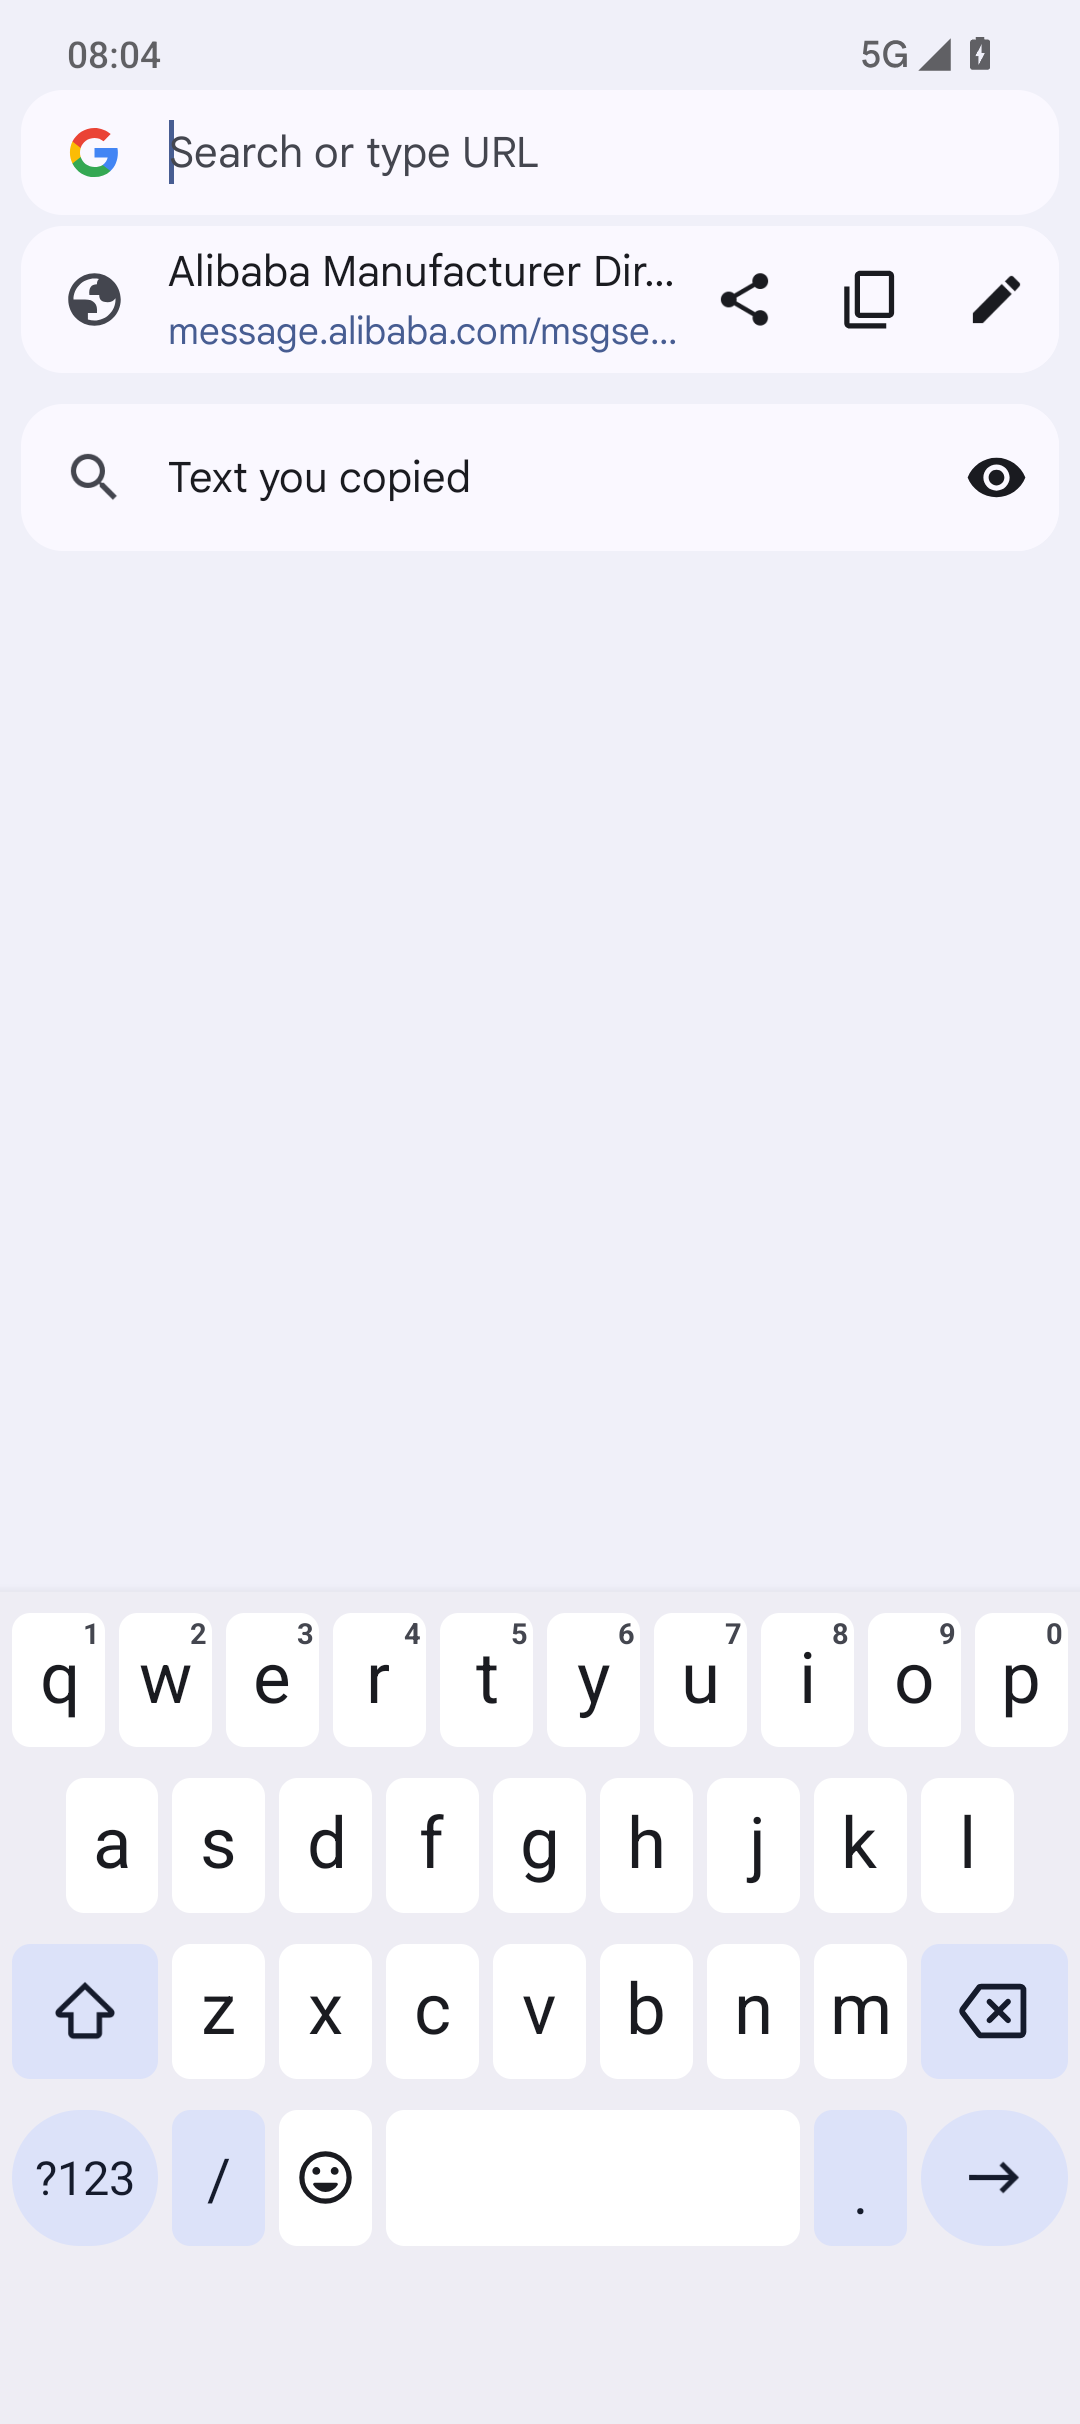
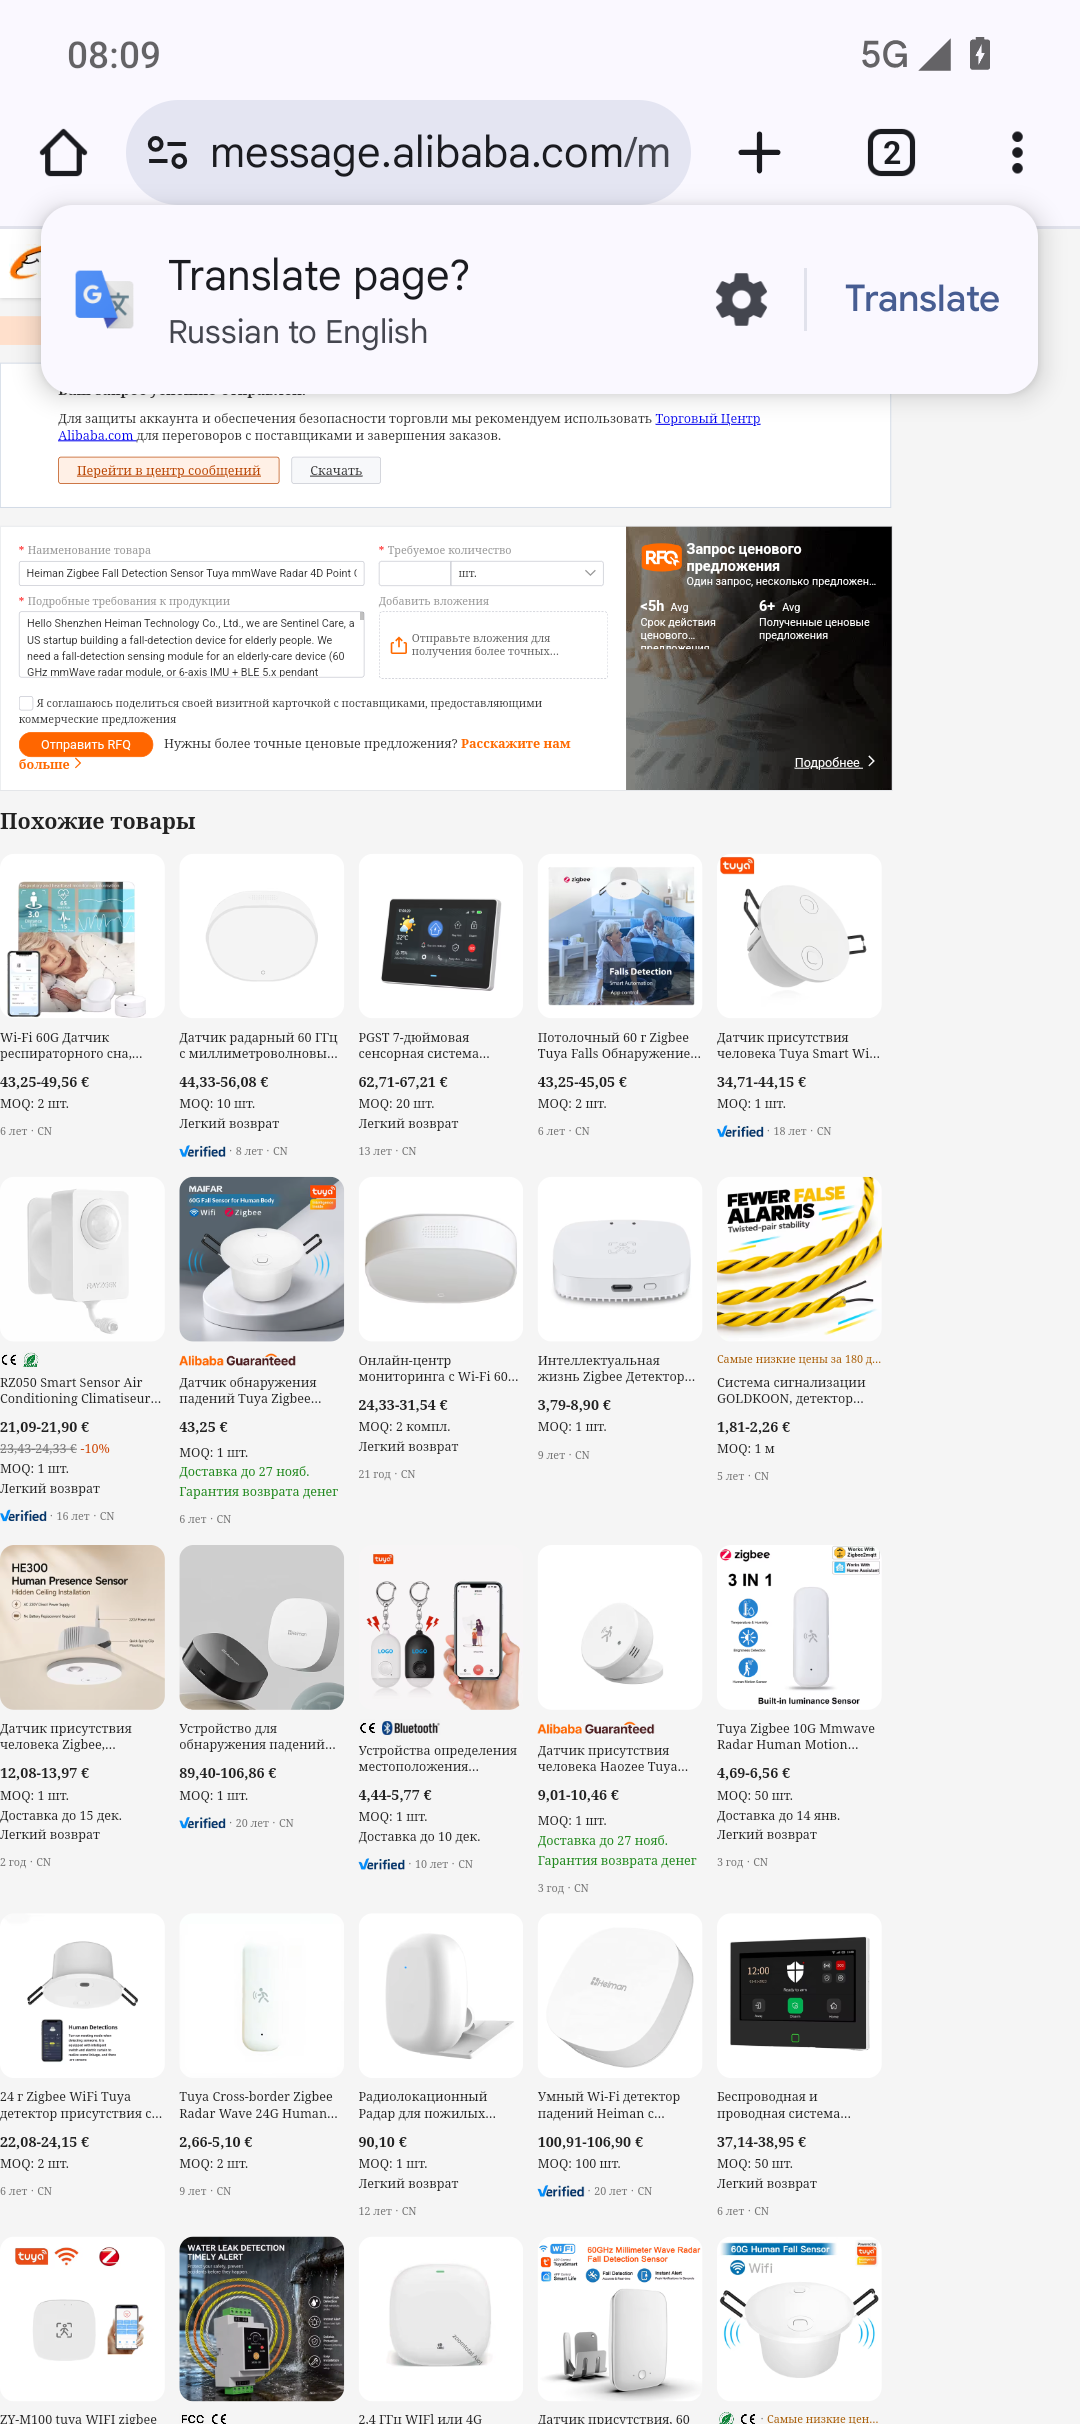
Evidence: numeric frame ordering; real final frames for the first Alibaba inquiry

diff --git a/lib/mobilerun.ts b/lib/mobilerun.ts
@@ -70,15 +70,17 @@ export async function saveTaskEvidence(taskId: string): Promise<string | null> {
   try {
     const { mkdirSync, writeFileSync } = await import("node:fs");
     const shots: any = await mobilerun.tasks.screenshots.list(taskId);
-    const urls: string[] = shots?.urls ?? [];
+    // The API lists frames lexicographically (0,1,10,11,…,2,20,…); order them by their numeric file name.
+    const num = (u: string) => Number((u.split("?")[0].match(/\/(\d+)\.png$/) || [])[1] ?? -1);
+    const urls: string[] = [...(shots?.urls ?? [])].sort((a, b) => num(a) - num(b));
     if (!urls.length) return null;
     const dir = `public/evidence/${taskId}`;
     mkdirSync(dir, { recursive: true });
-    const idx = [...new Set([0, Math.floor(urls.length / 2), urls.length - 1])];
+    const idx = [...new Set([0, Math.floor(urls.length / 2), urls.length - 2, urls.length - 1])].filter((i) => i >= 0);
     for (const i of idx) {
       const r = await fetch(urls[i]);
       if (!r.ok) continue;
-      writeFileSync(`${dir}/${i === urls.length - 1 ? "last" : String(i).padStart(3, "0")}.png`, Buffer.from(await r.arrayBuffer()));
+      writeFileSync(`${dir}/${i === urls.length - 1 ? "last" : String(num(urls[i])).padStart(3, "0")}.png`, Buffer.from(await r.arrayBuffer()));
     }
     return `/evidence/${taskId}/last.png`;
   } catch {
